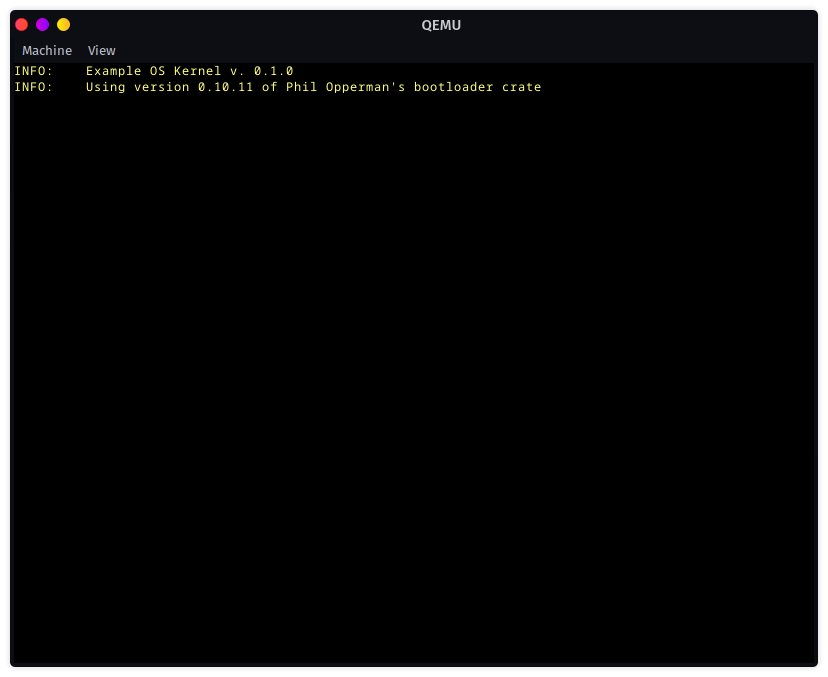
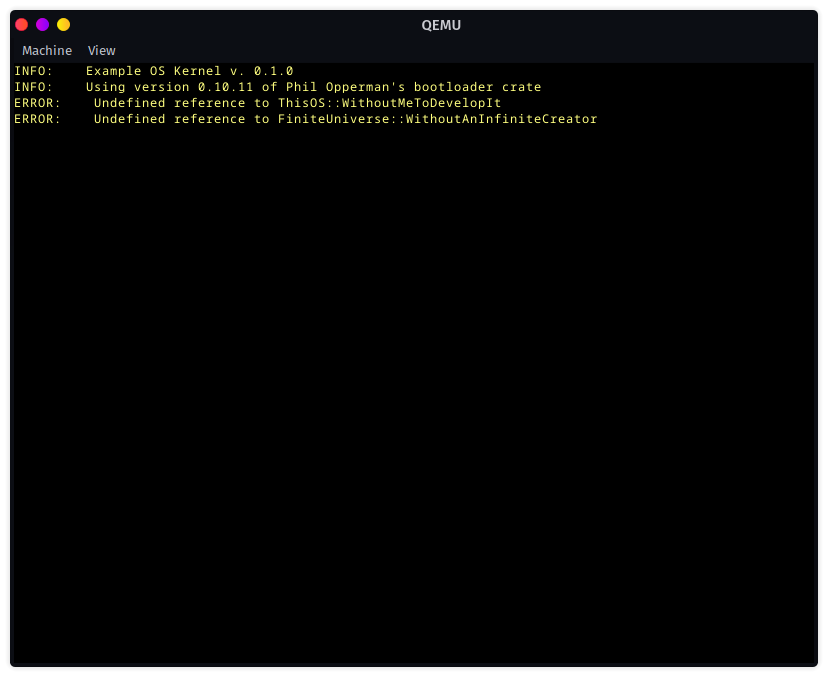
Add example error messages to example screenshot and bump version

Changed region(s): [[0.1208, 0.1241, 0.7246, 0.1861], [0.0, 0.1241, 0.0604, 0.1861]]

diff --git a/doc/printk/index.html b/doc/printk/index.html
@@ -29,7 +29,7 @@ Based on the design of the logger built into the <a href="https://github.com/rus
 <p>If you have any functionality to add, feel free to <a href="https://github.com/kennystrawnmusic/printk/pulls">create a pull request</a>. I’ll gladly test and accept it. If you have any bugs to report, that is also what GitHub is for.
 Also, if you’re an employer in the Mission Viejo, California area, feel free to reach out to me <a href="https://my.indeed.com/p/kenneths-fijbvmb">on Indeed</a>. I’ve got push notifications set up there, so any message you send through Indeed will definitely be seen.</p>
 <h2 id="example-output" class="section-header"><a href="#example-output">Example output</a></h2>
-<img src="qemu-example.png"></img>
+<img src="./qemu-example.png"></img>
 </div></details><h2 id="structs" class="small-section-header"><a href="#structs">Structs</a></h2>
 <div class="item-table"><div class="item-row"><div class="item-left module-item"><a class="struct" href="struct.LockedPrintk.html" title="printk::LockedPrintk struct">LockedPrintk</a></div><div class="item-right docblock-short"><p>Memory safety: need to ensure that each instance is mutexed</p>
 </div></div><div class="item-row"><div class="item-left module-item"><a class="struct" href="struct.Printk.html" title="printk::Printk struct">Printk</a></div><div class="item-right docblock-short"><p>Structure to render characters to the framebuffer</p>
